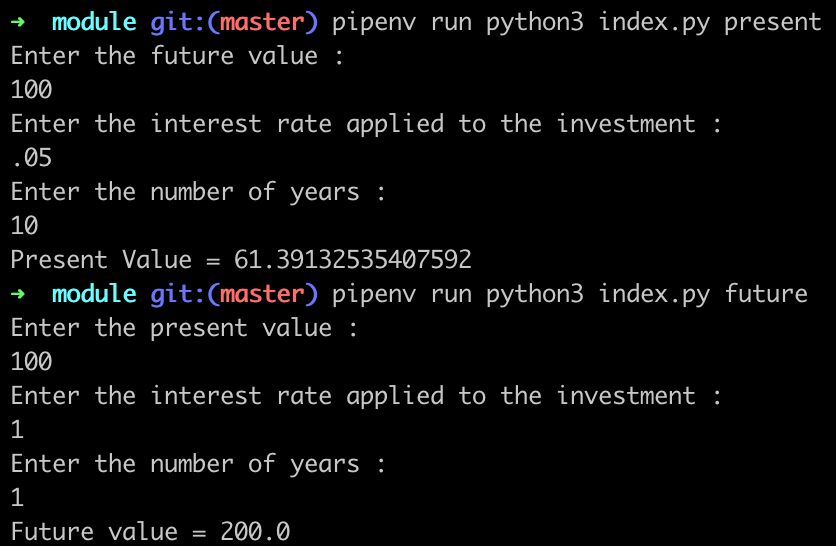
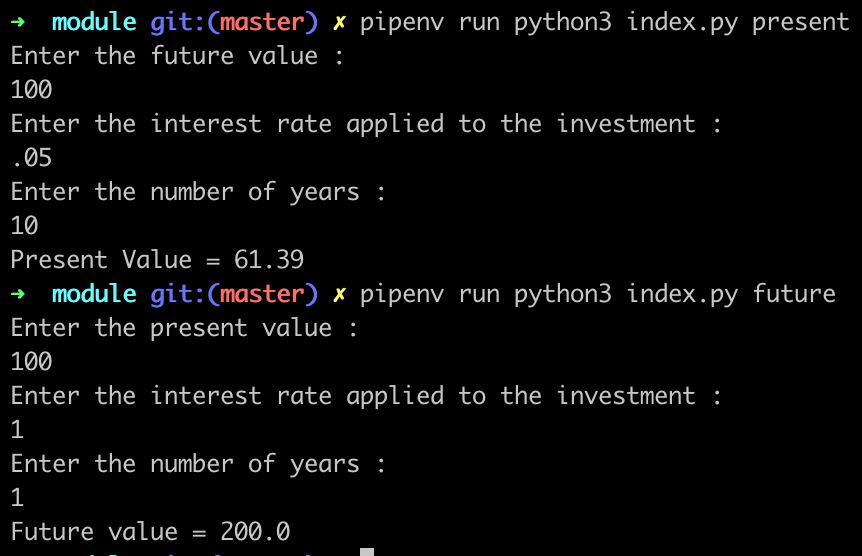
Now results are rounded

Changed region(s): [[0.0, 0.0, 0.9952, 1.0], [0.4043, 0.9652, 0.4354, 1.0], [0.3421, 0.9963, 0.3732, 1.0]]

diff --git a/module/index.py b/module/index.py
@@ -55,9 +55,9 @@ def compute_future_value():
     '''
     investment_characteristics = set_investment_characteristics("PV", "present")
     try:
-        investment_characteristics["FV"] = investment_characteristics["PV"] \
+        investment_characteristics["FV"] = round(investment_characteristics["PV"] \
                                            * ((1 + investment_characteristics["r"]) \
-                                           **investment_characteristics["n"])
+                                           **investment_characteristics["n"]), 2)
     except:
         print("Sorry, we were unable to compute the Future Value.")
     return investment_characteristics["FV"]
@@ -68,9 +68,9 @@ def compute_present_value():
     '''
     investment_characteristics = set_investment_characteristics("FV", "future")
     try:
-        investment_characteristics["PV"] = investment_characteristics["FV"] \
+        investment_characteristics["PV"] = round(investment_characteristics["FV"] \
                                             / ((1 + investment_characteristics["r"]) \
-                                            **investment_characteristics["n"])
+                                            **investment_characteristics["n"]), 2)
     except:
         print("Sorry, we were unable to compute the Present Value.")
     return investment_characteristics["PV"]
